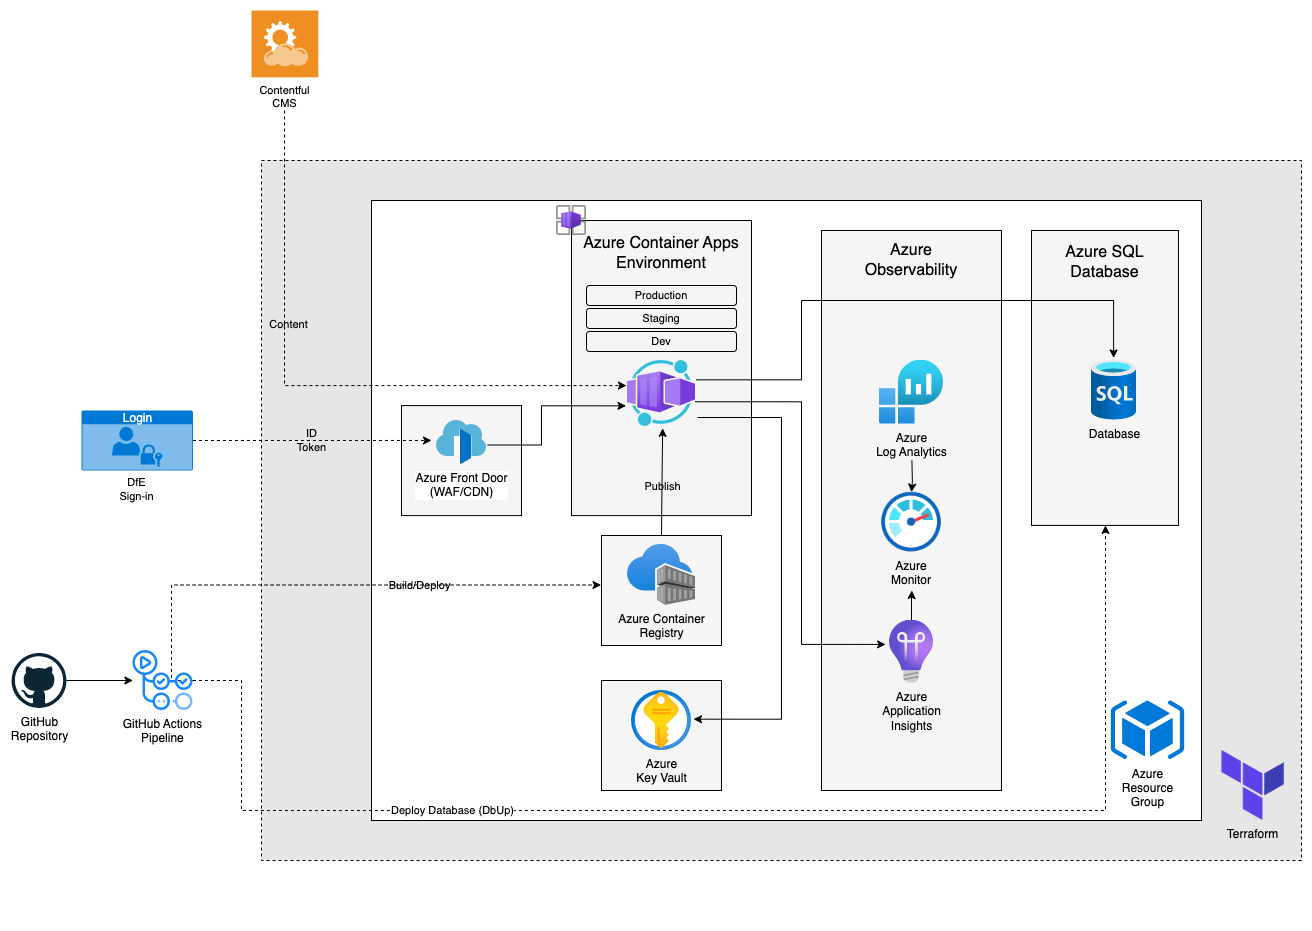
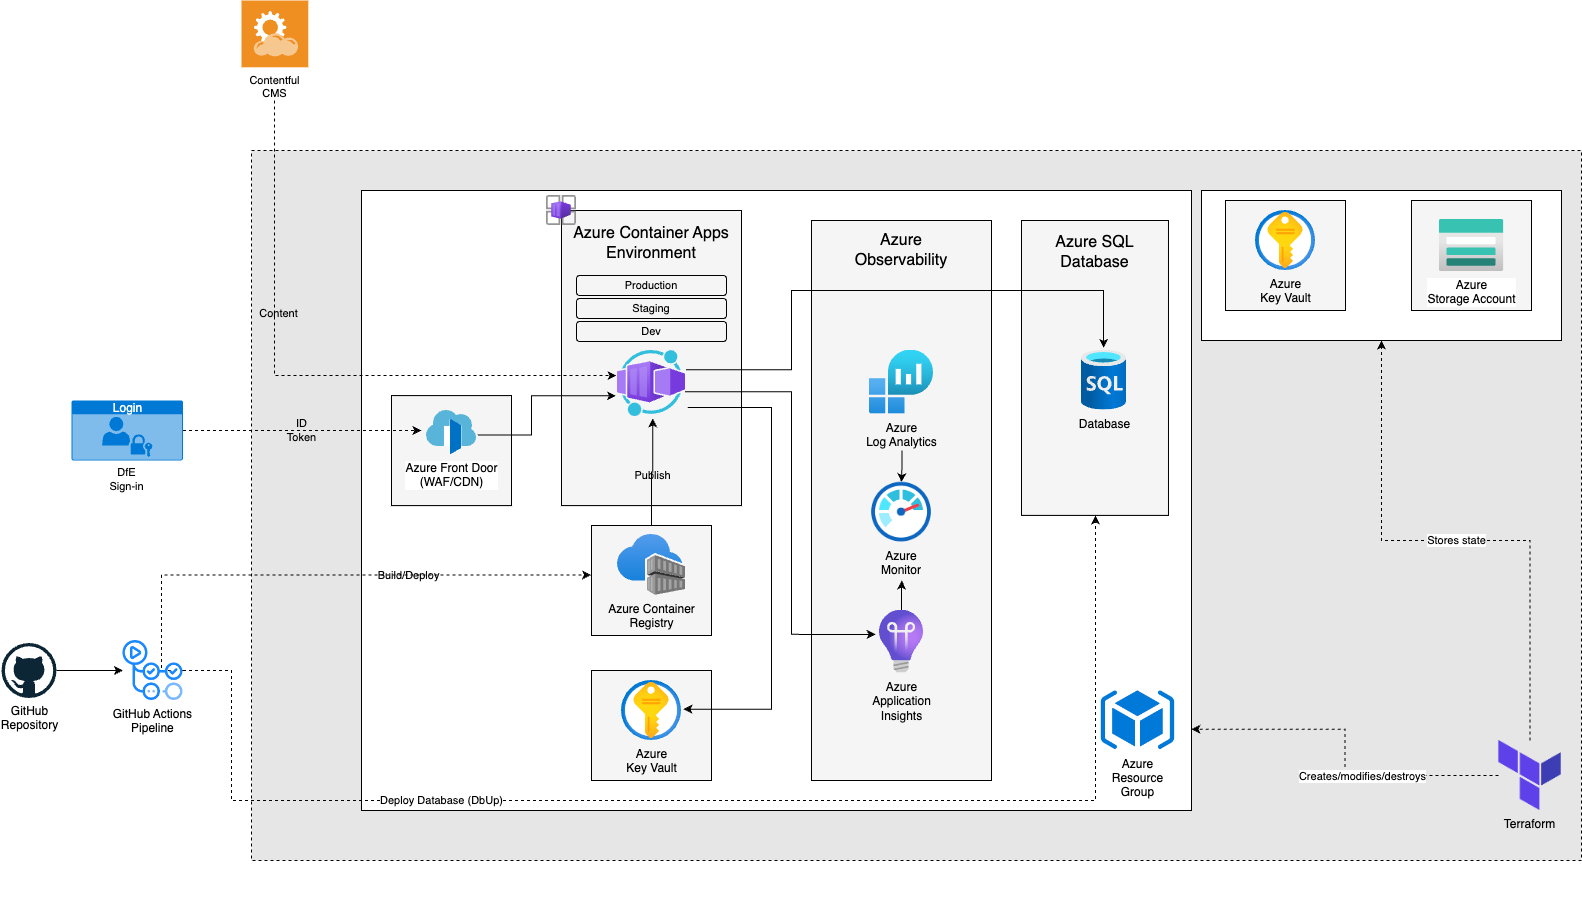
feat: Add script to create AZ resources for TF state (#229)
* feat: Add script to create AZ resources for TF state

* feat: Update architecture diagram

* docs: Update missing vars, formatting

Changed region(s): [[0.0, 0.1537, 1.0, 0.9528], [0.125, 0.0, 0.25, 0.1229], [0.6562, 0.3688, 0.7188, 0.4918]]

diff --git a/terraform/README.md b/terraform/README.md
@@ -80,10 +80,11 @@ export ARM_CLIENT_SECRET = <client_secret>
 And sign in to Azure using the Azure CLI, as the Terraform module uses this for part of the infrastructure deployoyment:
 
 ```
-az login --service-principal -u <client_id> -p <client_secret> --tenant <tenant_id> 
+az login --service-principal -u $ARM_CLIENT_ID -p $ARM_CLIENT_SECRET --tenant $ARM_TENANT_ID
 ```
 
 ### Terraform Init 
+
 Terraform needs to be initialised on your local machine before you can use it. To do this rename the `backend.tfvars.example` file to `backend.tfvars` and complete the configuration so that Terraform connects to the correct Azure Storage instance.  
 
 Run the following command to initialise Terraform.
@@ -93,12 +94,22 @@ Run the following command to initialise Terraform.
 ⚠ tfvars files are ignored by git, but please ensure they do not get committed to the repo by accident ⚠ 
 
 ### Terraform Plan
+
 To run the plan command, first rename the `terraform.tfvars.example` file to `terraform.tfvars` and complete the following configuration.  
 
-| Title          | description            |
-| -------------- | ---------------------- |
-| az_environment | The environment prefix |
-| az_location    | The Azure location     |
+| Title                                     | description                                                                  |
+| ----------------------------------------- | ---------------------------------------------------------------------------- |
+| az_environment                            | The environment prefix                                                       |
+| az_location                               | The Azure location                                                           |
+| project_name                              | DFE Project name                                                             |
+| environment                               | Azure environment (e.g. "dev")                                               |
+| azure_location                            | Azure location (e.g. "westeurope")                                           |
+| az_tag_environment                        | Environment tag for Azure resources (e.g. "Dev")                             |
+| az_tag_product                            | Product tag for Azure resources                                              |
+| cdn_frontdoor_origin_host_header_override | Override header for the frontdoor CDN                                        |
+| az_sql_admin_password                     | Password for SQL server admin                                                |
+| az_sql_admin_userid_postfix               | User for the SQL server  (this will be prepended by the resource group name) |
+| az_app_kestrel_endpoint                   | Expected endpoint for the Kestrel server (e.g. "https://127.0.0.1:8080)      |
 
 Run the following command to execute the Plan commande: 
 
@@ -141,6 +152,7 @@ When running locally you see an error similar to the following:
 To resolve this, you need to update the KeyVault Firewall to grant your IP access. 
 
 ### Logging
+
 To help troubleshoot Terraform, you can turn on [Terraform logging](https://developer.hashicorp.com/terraform/tutorials/configuration-language/troubleshooting-workflow#enable-terraform-logging) which can be directed to a file.
 
 To turn on logging create the following environment variable with either DEBUG or TRACE
@@ -152,6 +164,7 @@ To direct the output to a file, set the following environment variable. Terrafor
 `export TF_LOG_PATH=terraform.log`
 
 ### Output variables
+
 Another useful tip for debugging Terraform is to utilise output variables, refer to the [Output Data from Terraform](https://developer.hashicorp.com/terraform/tutorials/configuration-language/outputs) article.  
 
 The values of output variables are included within the log file so they can be reviewed.  
